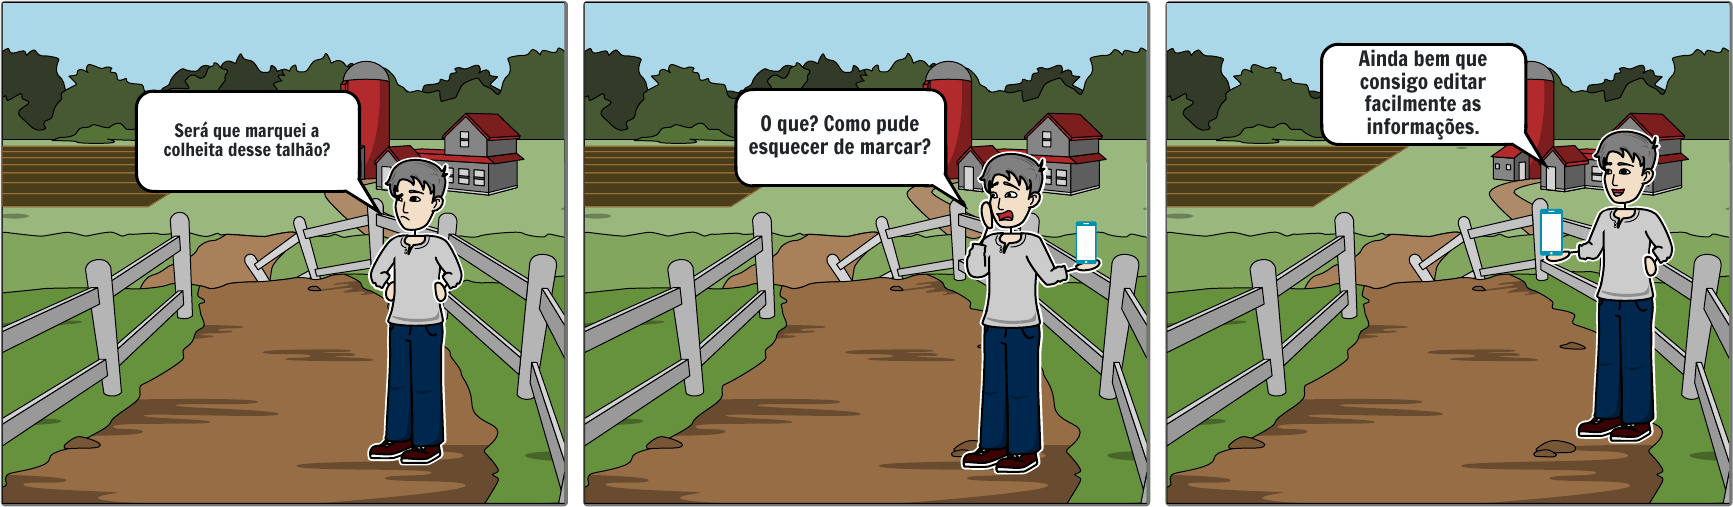
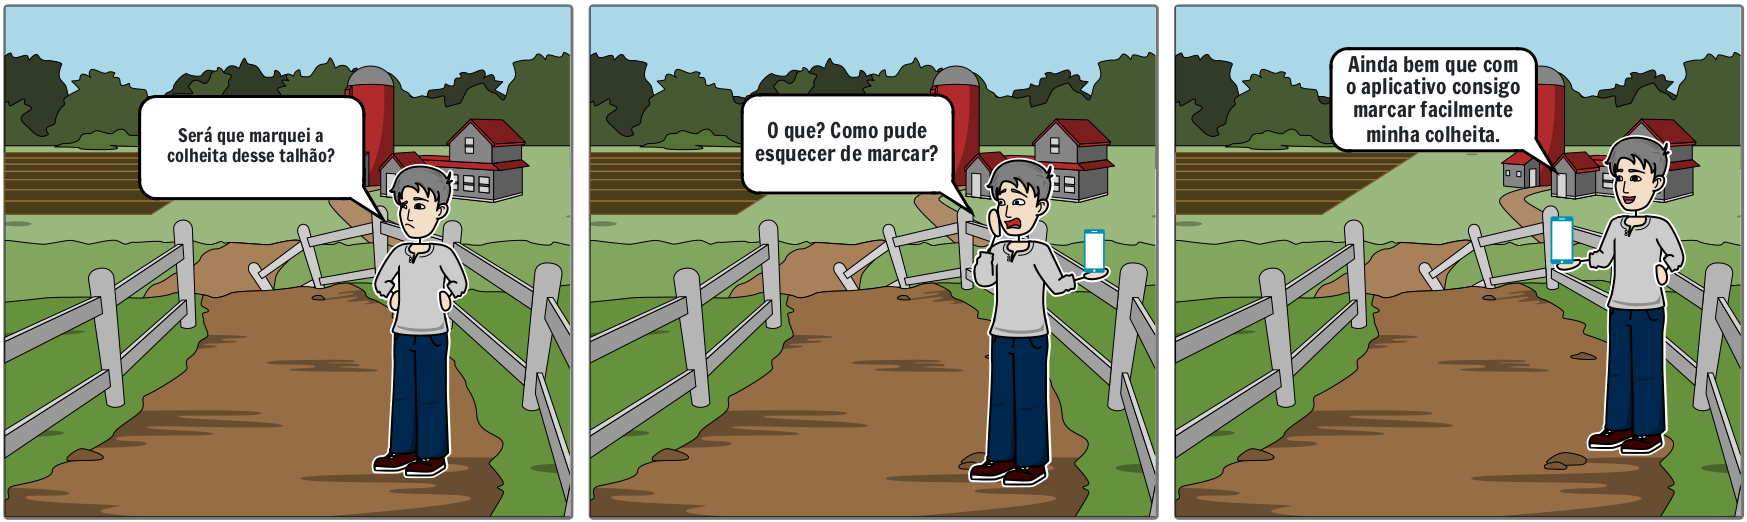
#6 Padronizando e corrigindo sb4

diff --git a/docs/requisitos/elicitacao/storytelling.md b/docs/requisitos/elicitacao/storytelling.md
@@ -12,47 +12,47 @@
 
 ## Histórias
 ### História 1
-<img src="../../../assets/requisitos/elicitacao/storyboard1.png"/>
+<img src="../../../assets/requisitos/elicitacao/storyboard1.png" class="zoom"/>
 <h6 align = "center">Figura 1: Storyboard 1</h6>
 <h6 align = "center">Fonte: Autor</h6>
 <p style="text-align: justify;">A primeira história consiste em um caso cuja persona não possui um nível de alfabetização alto, resultando assim numa experiência ruim caso a interface não possua elementos visuais de fácil identificação.</p>
 
 ### História 2
-<img src="../../../assets/requisitos/elicitacao/storyboard2.png"/>
+<img src="../../../assets/requisitos/elicitacao/storyboard2.png" class="zoom"/>
 <h6 align = "center">Figura 2: Storyboard 2</h6>
 <h6 align = "center">Fonte: Autor</h6>
 <p style="text-align: justify;">O segundo storyboard apresenta um cenário em que o agricultor consegue identificar facilmente o que deseja sem passos complexos ou difíceis.</p>
 
 ### História 3
-<img src="../../../assets/requisitos/elicitacao/storyboard3.png"/>
+<img src="../../../assets/requisitos/elicitacao/storyboard3.png" class="zoom"/>
 <h6 align = "center">Figura 3: Storyboard 3</h6>
 <h6 align = "center">Fonte: Autor</h6>
 <p style="text-align: justify;">A terceira história apresenta a perspectiva de um técnico, funcionária do Emater, que consegue, sem problemas, visualizar o rastreamento de um produtor, cadastrado pela própria Emater, por meio de sua caderneta de campo.</p>
 
 ### História 4
-<img src="../../../assets/requisitos/elicitacao/storyboard4.png"/>
+<img src="../../../assets/requisitos/elicitacao/storyboard4.png" class="zoom"/>
 <h6 align = "center">Figura 4: Storyboard 4</h6>
 <h6 align = "center">Fonte: Autor</h6>
-<p style="text-align: justify;">Na quarta história um produtor visualiza as informações de seu talhão e em seguida edita um informação que está incorreta.</p>
+<p style="text-align: justify;">Na quarta história um produtor visualiza as informações de seu talhão e em seguida marca a sua colheita.</p>
 
 ## Requisitos
 |ID|Tipo de Requisito|Descrição
 |--|--|--|
-|RE01|Não funcional|A aplicação deve proporcionar uma interface com elementos visuais autoexplicativos|
-|RE02|Não funcional|A aplicação deve permitir aos usuários acesso às funcionalidades com poucas etapas|
-|RE03|Não funcional|O sistema deve permitir o uso apenas de pessoas já cadastradas pelo Instituto de Assistência Técnica e Extensão Rural(EMATER)|
-|RE04|Funcional|A partir do sistema deve ser possível ao produtor enviar informações sobre o agrotóxico utilizado|
-|RE05|Funcional|A partir do sistema deve ser possível ao produtor enviar informações sobre as culturas presentes nos talhões|
-|RE06|Funcional|O sistema deve informar ao técnico as informações dos produtores designados|
-|RE07|Não funcional|O sistema precisará ter acesso à camera do celular|
-|RE08|Não funcional|A aplicação deverá ser disponibilizada por meio um aplicativo|
-|RE09|Funcional|O produtor deve conseguir ver informações de sua propriedade|
-|RE10|Funcional|O produtor deve conseguir editar as informações das culturas|
+|ST01|Não funcional|A aplicação deve proporcionar uma interface com elementos visuais autoexplicativos|
+|ST02|Não funcional|A aplicação deve permitir aos usuários acesso às funcionalidades com poucas etapas|
+|ST03|Não funcional|O sistema deve permitir o uso apenas de pessoas já cadastradas pelo Instituto de Assistência Técnica e Extensão Rural(EMATER)|
+|ST04|Funcional|A partir do sistema deve ser possível ao produtor enviar informações sobre o agrotóxico utilizado|
+|ST05|Funcional|A partir do sistema deve ser possível ao produtor enviar informações sobre as culturas presentes nos talhões|
+|ST06|Funcional|O sistema deve informar ao técnico as informações dos produtores designados|
+|ST07|Não funcional|O sistema precisará ter acesso à camera do celular|
+|ST08|Não funcional|A aplicação deverá ser disponibilizada por meio um aplicativo|
+|ST09|Funcional|O produtor deve conseguir ver informações de sua propriedade|
+|ST10|Funcional|O produtor deve conseguir marcar a colheita|
 
 ## Bibliografia
-<p style="text-align: justify; text-indent: 20px"> Boulila, N.; Herrmann A.; Hoffmann A. Using Storytelling to record requirements: Elements for an effective requirements elicitation approach. Fourth International Workshop on Multimedia and Enjoyable Requirements Engineering (MERE'11). IEEE. p. 6-7. 2011.</p>
+> Boulila, N.; Herrmann A.; Hoffmann A. <b>Using Storytelling to record requirements</b>: Elements for an effective requirements elicitation approach. Fourth International Workshop on Multimedia and Enjoyable Requirements Engineering (MERE'11). IEEE. p. 6-7. 2011.
 
-<p style="text-align: justify; text-indent: 20px">ROGERS, Yvonne; PREECE, Jennifer; SHARP, Helen. <b>Design de Interação<b>: Além da Interação Humano-Computador. 1ª. ed. [S. l.]: Bookman, 2005.</p>
+>ROGERS, Yvonne; PREECE, Jennifer; SHARP, Helen. <b>Design de Interação</b>: Além da Interação Humano-Computador. 1ª. ed. [S. l.]: Bookman, 2005.
 
-<p style="text-align: justify; text-indent: 20px"><b>Storyboard That</b>. Disponível em: <a href="https://www.storyboardthat.com/pt/" target="_blanck">https://www.storyboardthat.com</a>. Acesso em: 28 de Janeiro de 2022.</p>
+><b>Storyboard That</b>. Disponível em: <a href="https://www.storyboardthat.com/pt/" target="_blanck">https://www.storyboardthat.com</a>. Acesso em: 28 de Janeiro de 2022.
 
